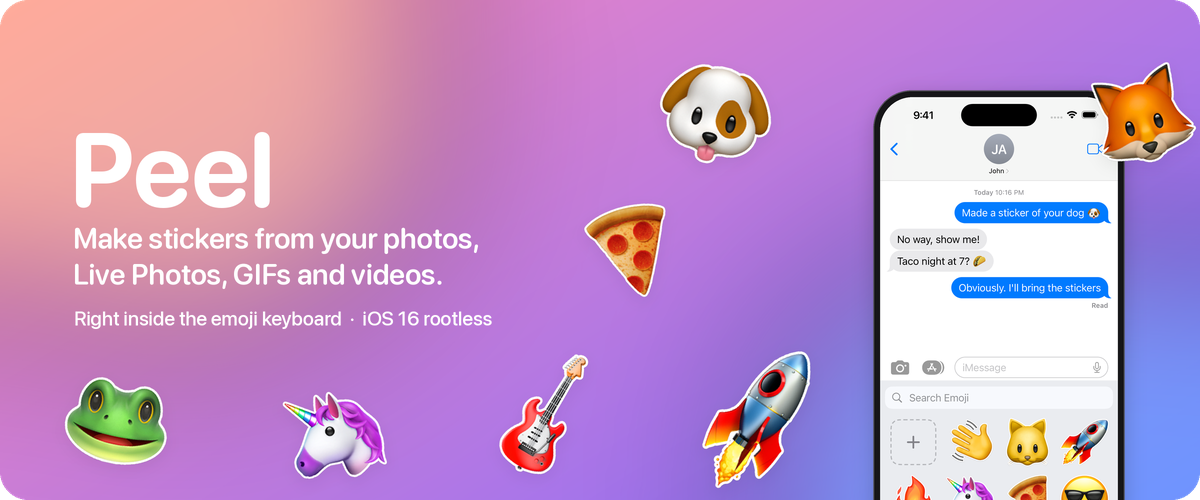
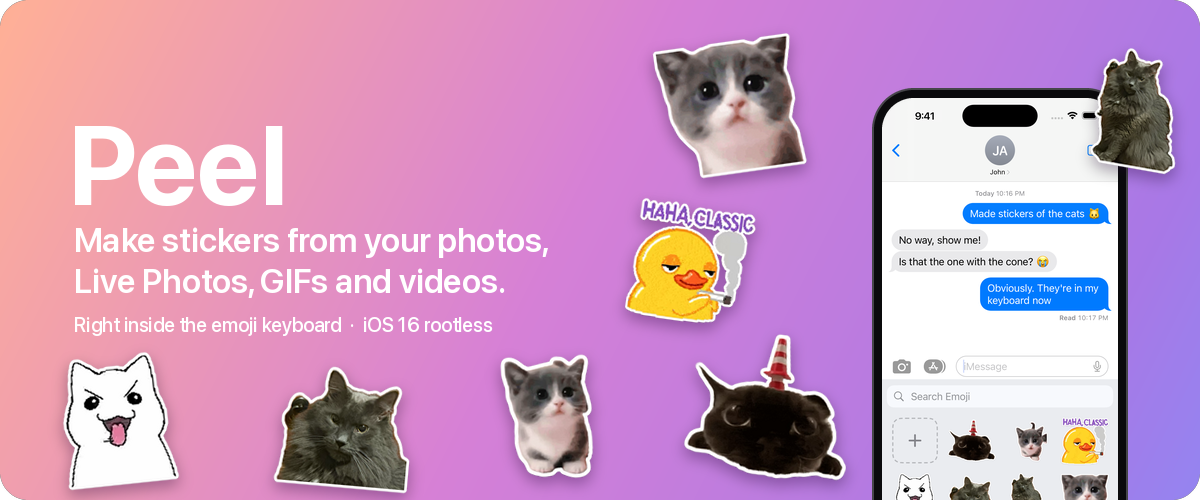
README: install from the Flame repo, iMessage-only app, new screenshots

diff --git a/README.md b/README.md
@@ -18,12 +18,12 @@
 
 <picture>
   <source media="(prefers-color-scheme: dark)" srcset="docs/images/showcase-dark.png">
-  <img src="docs/images/showcase-light.png" alt="The Stickers library, the Stickers section of the emoji keyboard in Messages, and the sticker maker">
+  <img src="docs/images/showcase-light.png" alt="The Stickers iMessage app in Messages, the Stickers section of the emoji keyboard, and the sticker maker">
 </picture>
 
 ## Features
 
-<img align="right" src="docs/images/animated-sticker.png" width="160" alt="An animated waving-hand sticker">
+<img align="right" src="docs/images/animated-sticker.png" width="160" alt="An animated sticker of a black cat with a traffic cone on its head, made from a GIF">
 
 - **One-tap background removal.** Uses the same engine as Photos' "Copy Subject" (VisionKit), so you get the same clean cut-outs.
 - **Animated stickers.** Live Photos, GIFs and videos become 30 fps animated stickers (HEICS, the format iOS 17 uses), and they still fit Messages' 500 KB limit.
@@ -31,8 +31,8 @@
 - **Peel and stick.** In Messages, touch and hold a sticker to peel it off, then drop it on any bubble, just like Apple's stickers.
 - **Fix the cut-out.** Crop, then use the Erase & Restore brush to clean up the edges, with pinch to zoom and undo.
 - **Die-cut outline.** A white border with a soft shadow that you can switch on or off.
-- **iMessage app included.** Your stickers also show in the Messages app drawer with native peel-and-drag.
-- **Paste or drop subjects.** Copy a subject in Photos and paste it, or drag one straight into the Stickers app.
+- **iMessage app included.** Your stickers also show in the Messages app drawer with native peel-and-drag. Tap the pencil tile there to delete stickers.
+- **No home screen app.** Peel lives in Messages and the emoji keyboard; the app that hosts the iMessage app is hidden, like Messages-only App Store apps.
 
 ## The sticker maker
 
@@ -42,13 +42,19 @@
 | --- | --- | --- |
 | See the finished sticker, switch the outline on or off, and choose still or animated with the frame rate. | Frame the part of the photo or video you want. | Paint away leftover background or bring back parts the cut-out missed. |
 
-The same maker is shared by the app, the iMessage app and the keyboard, so every way in works the same.
+The same maker is shared by the iMessage app and the keyboard, so both ways in work the same.
 
 ## Install
 
-1. Download the latest `com.josh.stickers_*_iphoneos-arm64.deb` from [Releases](../../releases).
-2. Install it with Sileo, Zebra or `dpkg -i`, then respring.
-3. Open the **Stickers** app (Peel's name on the home screen) to make your first sticker, or open any keyboard, switch to emoji, and tap the sticker icon at the bottom left.
+<p>
+  <a href="https://flameaway.github.io/repo/"><img alt="Add repo to Sileo / Zebra" src="https://img.shields.io/badge/Add%20repo-Sileo%20%C2%B7%20Zebra-C04BE0?style=for-the-badge"></a>
+</p>
+
+1. On your device, open **[flameaway.github.io/repo](https://flameaway.github.io/repo/)** and tap **Add to Sileo** or **Add to Zebra** (or add `https://flameaway.github.io/repo/` under Sources). You'll get updates automatically from then on.
+2. Search for **Stickers** and install it, then respring.
+3. In Messages, open **Stickers** in the app row and tap "+" to make your first sticker, or open any keyboard, switch to emoji, and tap the sticker icon at the bottom left.
+
+You can also download the `.deb` from [Releases](../../releases) and install it with `dpkg -i`.
 
 **Requirements:** a rootless jailbreak (tested on Dopamine, iPhone 14 Pro Max, iOS 16.5). Background removal needs an A12 chip or newer.
 
@@ -56,11 +62,11 @@ The same maker is shared by the app, the iMessage app and the keyboard, so every
 
 | Part | What it does |
 | --- | --- |
-| `StickersApp` → `/var/jb/Applications/Stickers.app` | Sticker library and maker: pick a photo, Live Photo, GIF or video; paste a subject copied from Photos; or drop one into the window. |
+| `StickersApp` → `/var/jb/Applications/Stickers.app` | A stub that hosts the iMessage app. `LSApplicationLaunchProhibited` and `SBAppTags: hidden` keep it off the home screen. |
 | `Shared/Creator` | The sticker maker used everywhere: crop the photo or video, background removal (the engine behind Photos' "Copy Subject"), an Erase & Restore brush to fix the cut-out, a white die-cut outline, and encoding to PNG or (animated) 30 fps HEICS within Messages' 500 KB limit. |
-| `EmojiStickers` tweak | Adds a sticker button to the emoji keyboard's category bar in every app. Tap a sticker to insert it (in apps whose text field doesn't take pasted images, it's copied for you to paste); touch and hold to peel it off, then drop it on a bubble in Messages to stick it there. "+" opens the sticker maker over the current app. |
+| `EmojiStickers` tweak | Adds a sticker button to the emoji keyboard's category bar in every app. Tap a sticker to insert it (in apps whose text field doesn't take pasted images, it's copied for you to paste); touch and hold to peel it off (with Messages' own peel animation), then drop it on a bubble in Messages to stick it there. "+" opens the sticker maker over the current app. |
 | `CreatorLibrary` → `STKCreator.dylib` | The sticker maker for the keyboard. The tweak loads it only when "+" is tapped, so apps don't load Photos and AVFoundation just for showing the keyboard. |
-| `MessagesExtension` (iMessage app) | Your stickers with Messages' native peel-and-drag, plus "+" to make one without leaving the conversation. |
+| `MessagesExtension` (iMessage app) | Your stickers with Messages' native peel-and-drag, "+" to make one without leaving the conversation, and an Edit tile to delete them. |
 
 Stickers are stored in `/var/jb/var/mobile/Library/Stickers`. Sandboxed apps such as Messages can read the jailbreak root on Dopamine, but not our app group container.
 
@@ -69,7 +75,7 @@ Stickers are stored in `/var/jb/var/mobile/Library/Stickers`. Sandboxed apps suc
 Requires [Theos](https://theos.dev) with `sdks/iPhoneOS16.5.sdk`.
 
 ```sh
-make package FINALPACKAGE=1                                         # -> packages/com.josh.stickers_*_iphoneos-arm64.deb
+make package FINALPACKAGE=1                                         # -> packages/com.flame.stickers_*_iphoneos-arm64.deb
 make do FINALPACKAGE=1 THEOS_DEVICE_IP=<ip> THEOS_DEVICE_USER=root  # build, install, restart Stickers and Messages
 ```
 
@@ -96,4 +102,4 @@ Animated stickers are HEICS (HEVC frames with alpha, the format of iOS 17's live
 
 ---
 
-<sub>Screenshots were taken in the iOS 16.4 simulator with the real app, keyboard tweak and sticker maker running, using demo stickers made from emoji.</sub>
+<sub>Screenshots were taken in the iOS 16.4 simulator with the real iMessage app, keyboard tweak and sticker maker running. The stickers were made from real cat photos and GIFs by Peel's own sticker renderer; the simulator can't do background removal, so the cut-outs came from the same Vision subject lifting on a Mac.</sub>
